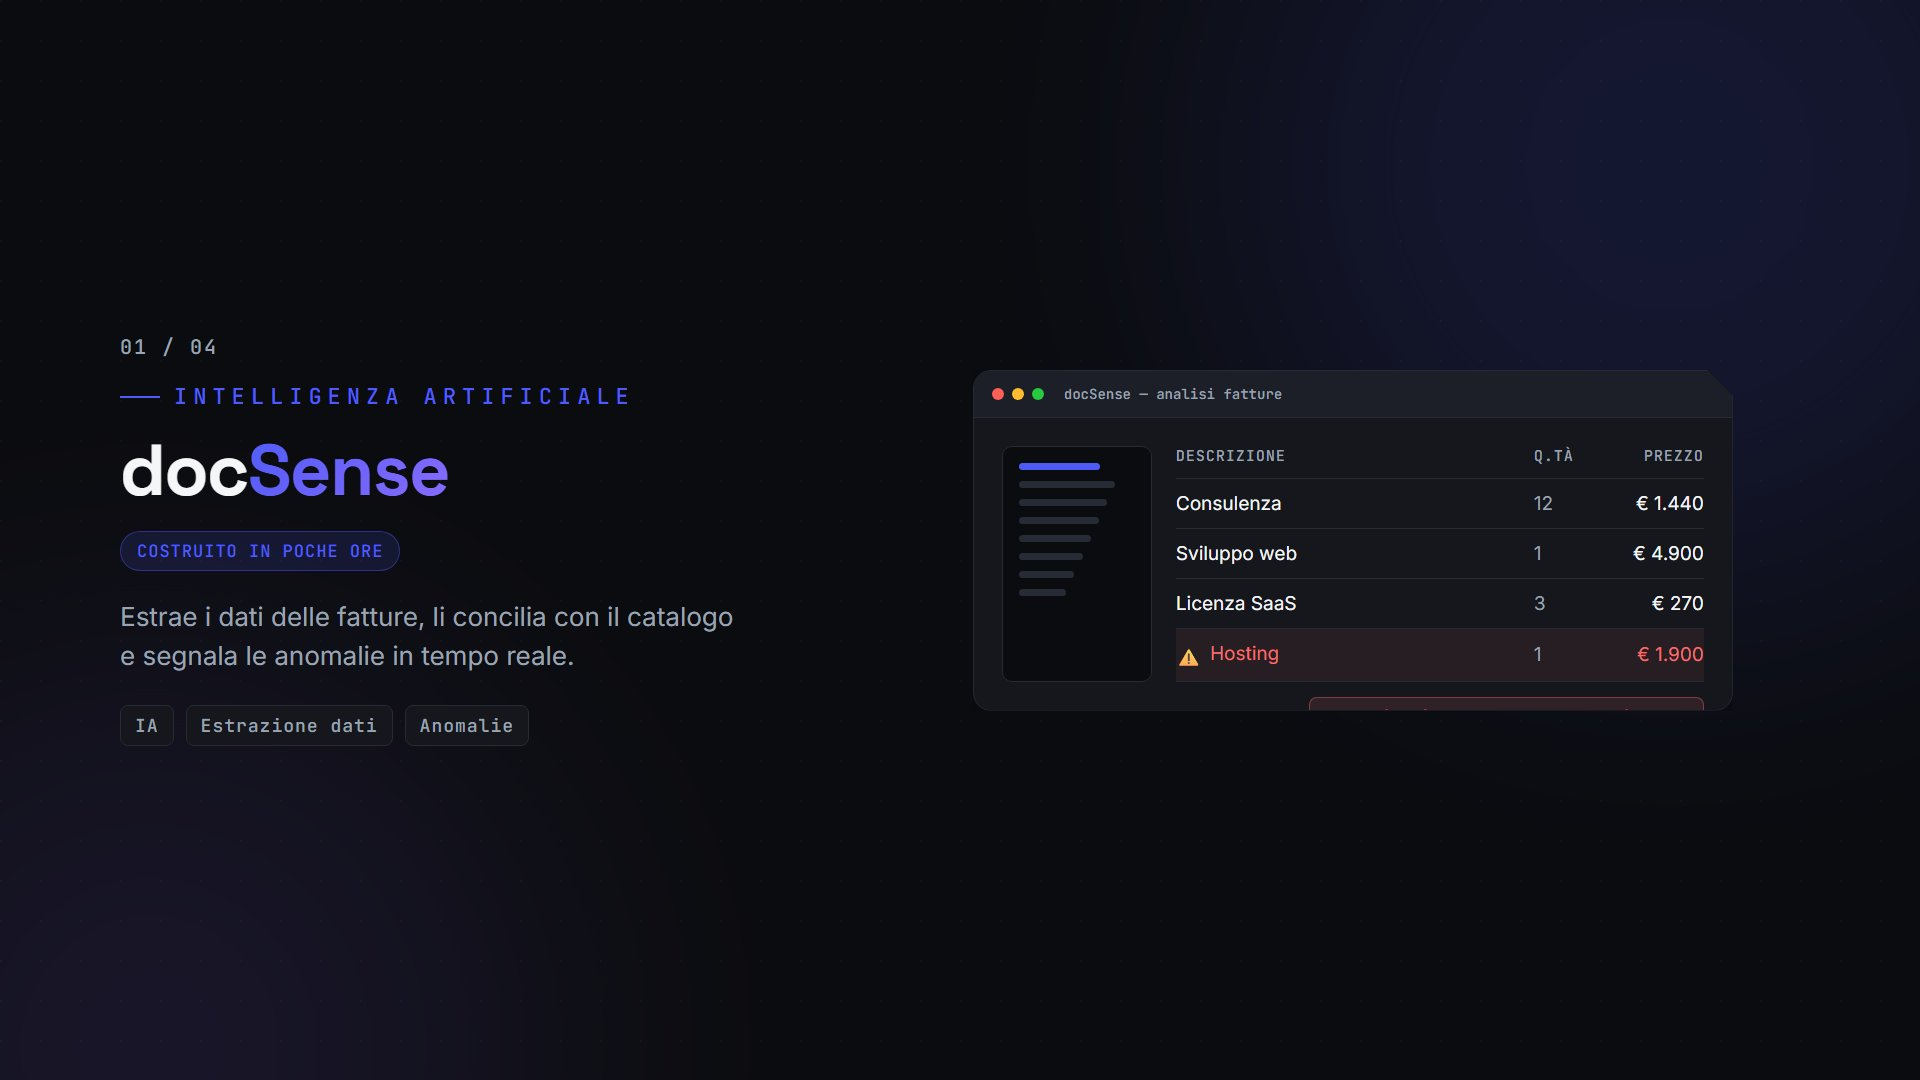
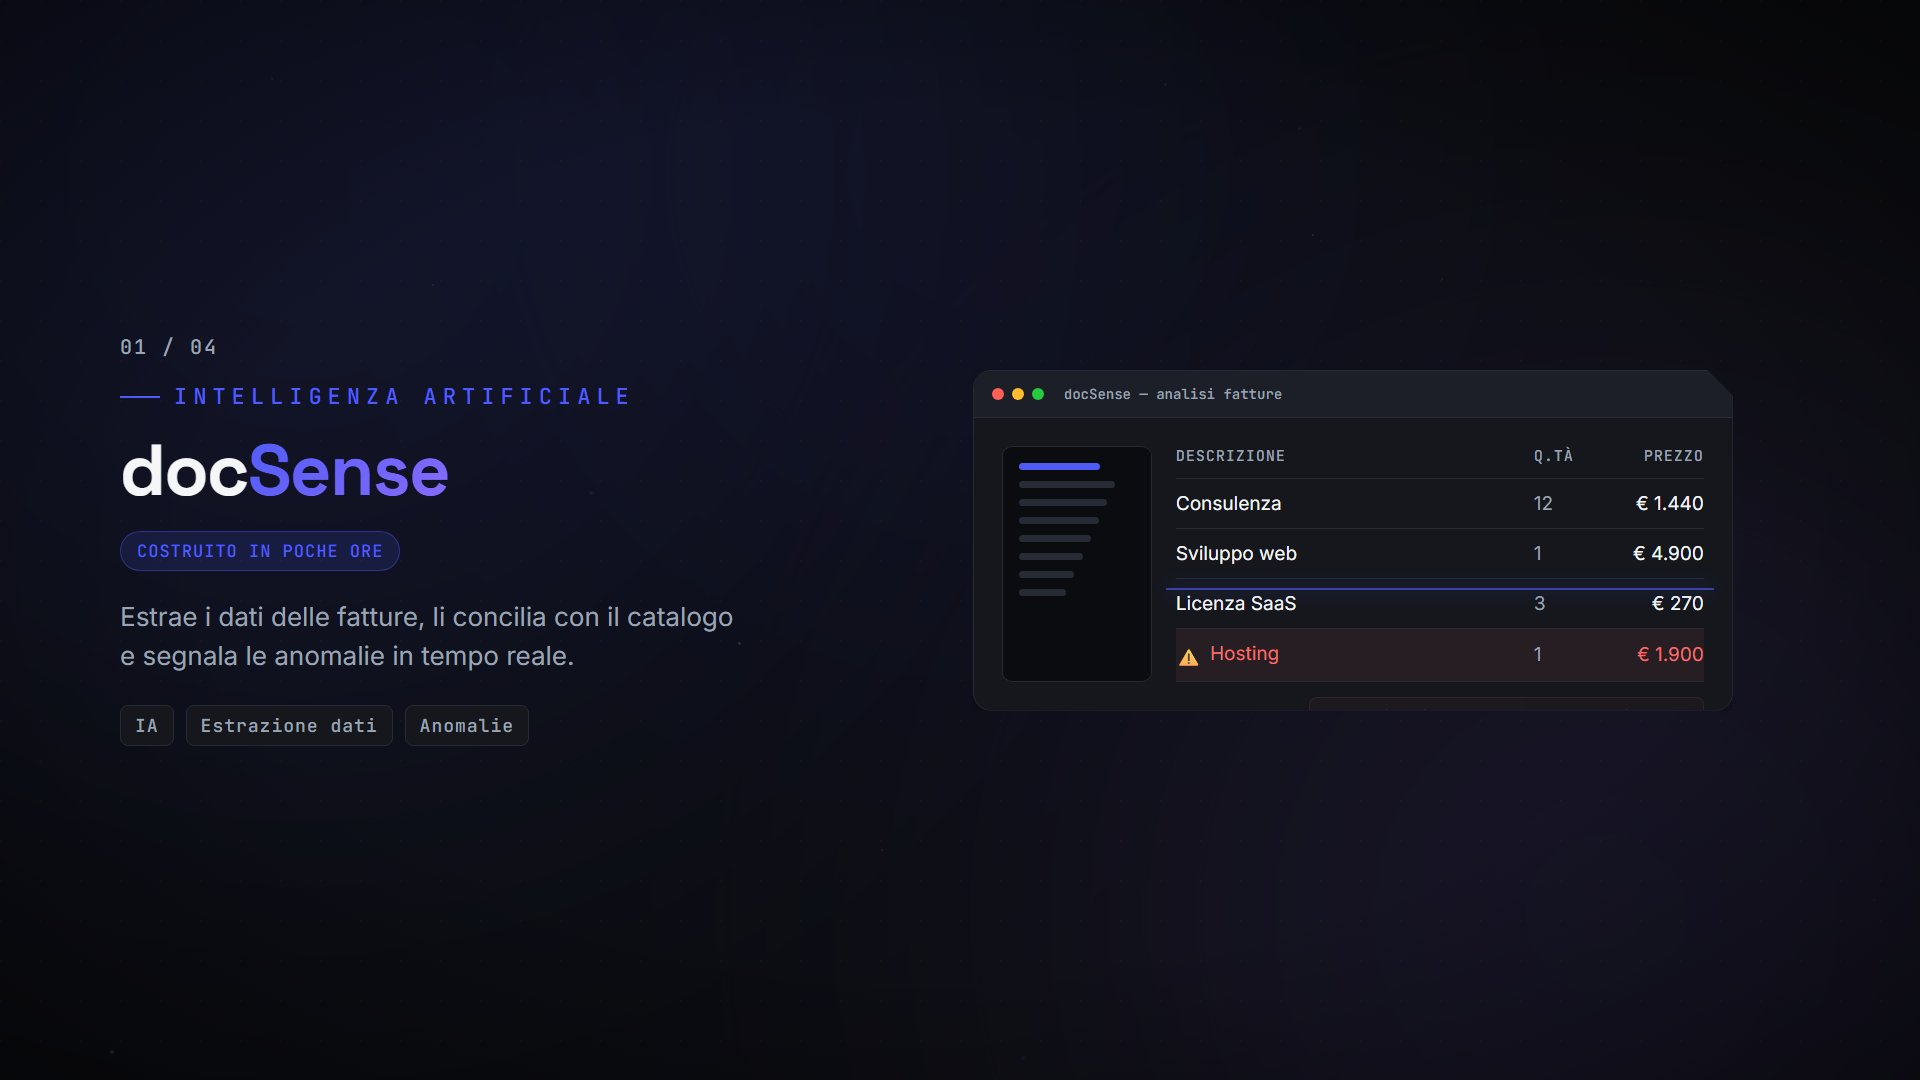
polish: punchier showcase reel — tighter scenes, animated background
- Cut scene durations (~52s -> ~32s) to remove static holds between projects
- Softer drifting glows + particles + vignette (no more two hard circles)
- Continuous motion in mockups (looping invoice scan, live timer)

diff --git a/video/src/components.tsx b/video/src/components.tsx
@@ -10,55 +10,101 @@ import {
 import { C, grad, grotesk, inter, mono } from "./theme";
 
 /* ----------------------------- Background ------------------------------- */
-export const Background: React.FC<{ children?: React.ReactNode }> = ({
-  children,
-}) => {
+const Blob: React.FC<{
+  x: number;
+  y: number;
+  size: number;
+  color: string;
+  opacity: number;
+  ax: number;
+  ay: number;
+  speed: number;
+  phase?: number;
+}> = ({ x, y, size, color, opacity, ax, ay, speed, phase = 0 }) => {
   const frame = useCurrentFrame();
-  const drift = interpolate(frame, [0, 300], [0, 30], {
-    extrapolateRight: "extend",
-  });
+  const dx = Math.sin((frame + phase) / speed) * ax;
+  const dy = Math.cos((frame + phase) / (speed * 1.25)) * ay;
   return (
-    <AbsoluteFill style={{ backgroundColor: C.bg, overflow: "hidden" }}>
-      {/* dot grid */}
-      <AbsoluteFill
-        style={{
-          backgroundImage:
-            "radial-gradient(circle at 1px 1px, rgba(255,255,255,0.05) 1px, transparent 0)",
-          backgroundSize: "40px 40px",
-          opacity: 0.6,
-        }}
-      />
-      {/* glow blobs */}
-      <div
-        style={{
-          position: "absolute",
-          top: -300 + drift,
-          right: -200,
-          width: 900,
-          height: 900,
-          borderRadius: "50%",
-          background: C.accent,
-          opacity: 0.14,
-          filter: "blur(160px)",
-        }}
-      />
-      <div
-        style={{
-          position: "absolute",
-          bottom: -350 - drift,
-          left: -250,
-          width: 800,
-          height: 800,
-          borderRadius: "50%",
-          background: C.accent2,
-          opacity: 0.1,
-          filter: "blur(170px)",
-        }}
-      />
-      {children}
-    </AbsoluteFill>
+    <div
+      style={{
+        position: "absolute",
+        left: x + dx,
+        top: y + dy,
+        width: size,
+        height: size,
+        borderRadius: "50%",
+        background: color,
+        opacity,
+        filter: `blur(${Math.round(size / 4)}px)`,
+      }}
+    />
   );
 };
+
+const Particles: React.FC = () => {
+  const frame = useCurrentFrame();
+  const N = 18;
+  const H = 1180;
+  return (
+    <>
+      {Array.from({ length: N }).map((_, i) => {
+        const seed = i * 97 + 13;
+        const x = (seed * 137) % 1920;
+        const baseY = (seed * 71) % H;
+        const speed = 0.25 + (i % 4) * 0.12;
+        const y = (((baseY - frame * speed) % H) + H) % H - 40;
+        const sway = Math.sin((frame + i * 31) / 45) * 16;
+        const size = 2 + (i % 3);
+        const op = 0.08 + (i % 4) * 0.035;
+        return (
+          <div
+            key={i}
+            style={{
+              position: "absolute",
+              left: x + sway,
+              top: y,
+              width: size,
+              height: size,
+              borderRadius: "50%",
+              background: i % 5 === 0 ? C.accent : C.facetLight,
+              opacity: op,
+            }}
+          />
+        );
+      })}
+    </>
+  );
+};
+
+export const Background: React.FC<{ children?: React.ReactNode }> = ({
+  children,
+}) => (
+  <AbsoluteFill style={{ backgroundColor: C.bg, overflow: "hidden" }}>
+    {/* dot grid */}
+    <AbsoluteFill
+      style={{
+        backgroundImage:
+          "radial-gradient(circle at 1px 1px, rgba(255,255,255,0.05) 1px, transparent 0)",
+        backgroundSize: "40px 40px",
+        opacity: 0.5,
+      }}
+    />
+    {/* soft, drifting glows (blended, not hard circles) */}
+    <Blob x={-360} y={-420} size={1200} color={C.accent} opacity={0.12} ax={70} ay={50} speed={55} />
+    <Blob x={1080} y={420} size={1100} color={C.accent2} opacity={0.1} ax={80} ay={60} speed={68} phase={120} />
+    <Blob x={520} y={-240} size={820} color={C.accent} opacity={0.05} ax={60} ay={70} speed={80} phase={40} />
+    {/* drifting particles */}
+    <Particles />
+    {/* vignette for depth */}
+    <AbsoluteFill
+      style={{
+        background:
+          "radial-gradient(ellipse at center, transparent 55%, rgba(0,0,0,0.45) 100%)",
+      }}
+    />
+    {children}
+  </AbsoluteFill>
+);
 
 /* ------------------------------ Logo mark ------------------------------- */
 export const Mark: React.FC<{ size: number }> = ({ size }) => (

diff --git a/video/src/scenes.tsx b/video/src/scenes.tsx
@@ -156,10 +156,7 @@ const DocSenseMock: React.FC = () => {
     ["Licenza SaaS", "3", "€ 270", false],
     ["Hosting", "1", "€ 1.900", true],
   ] as const;
-  const scan = interpolate(frame, [20, 120], [0, 1], {
-    extrapolateLeft: "clamp",
-    extrapolateRight: "clamp",
-  });
+  const scan = (frame % 70) / 70; // continuous looping scan
   return (
     <Panel delay={6} faceted style={{ width: 760 }}>
       <WindowBar label="docSense — analisi fatture" />
@@ -270,11 +267,11 @@ const DocSenseMock: React.FC = () => {
               position: "absolute",
               left: -10,
               right: -10,
-              top: `${interpolate(scan, [0, 1], [12, 88])}%`,
+              top: `${interpolate(scan, [0, 1], [10, 90])}%`,
               height: 2,
               background: C.accent,
               boxShadow: `0 0 18px ${C.accent}`,
-              opacity: scan > 0 && scan < 1 ? 0.8 : 0,
+              opacity: 0.65,
             }}
           />
         </div>
@@ -416,9 +413,10 @@ const MatchMoodMock: React.FC = () => {
             height: 10,
             borderRadius: "50%",
             background: C.red,
+            opacity: 0.4 + 0.6 * Math.abs(Math.sin(frame / 12)),
           }}
         />
-        LIVE · 01:24
+        {`LIVE · 01:${String(24 + Math.floor(frame / 30)).padStart(2, "0")}`}
       </div>
     </div>
   );

diff --git a/video/src/Showcase.tsx b/video/src/Showcase.tsx
@@ -6,9 +6,9 @@ import { slide } from "@remotion/transitions/slide";
 import { Intro, DocSense, MatchMood, Asroma, Automazione, Outro } from "./scenes";
 import { C } from "./theme";
 
-const T = 16; // transition length (frames)
-const D = [120, 360, 330, 330, 330, 180]; // scene durations
-export const DURATION = D.reduce((a, b) => a + b, 0) - T * 5; // = 1570 frames (~52s @30fps)
+const T = 14; // transition length (frames)
+const D = [100, 200, 200, 200, 200, 140]; // scene durations (tighter, no dead air)
+export const DURATION = D.reduce((a, b) => a + b, 0) - T * 5; // ~970 frames (~32s @30fps)
 
 export const Showcase: React.FC = () => (
   <AbsoluteFill style={{ backgroundColor: C.bg }}>